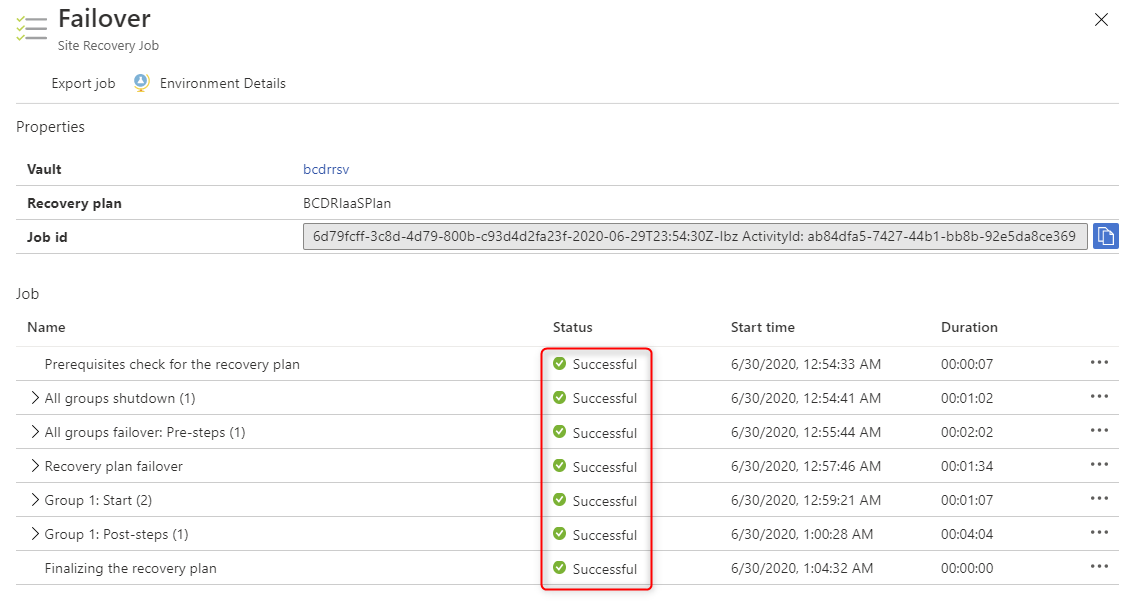
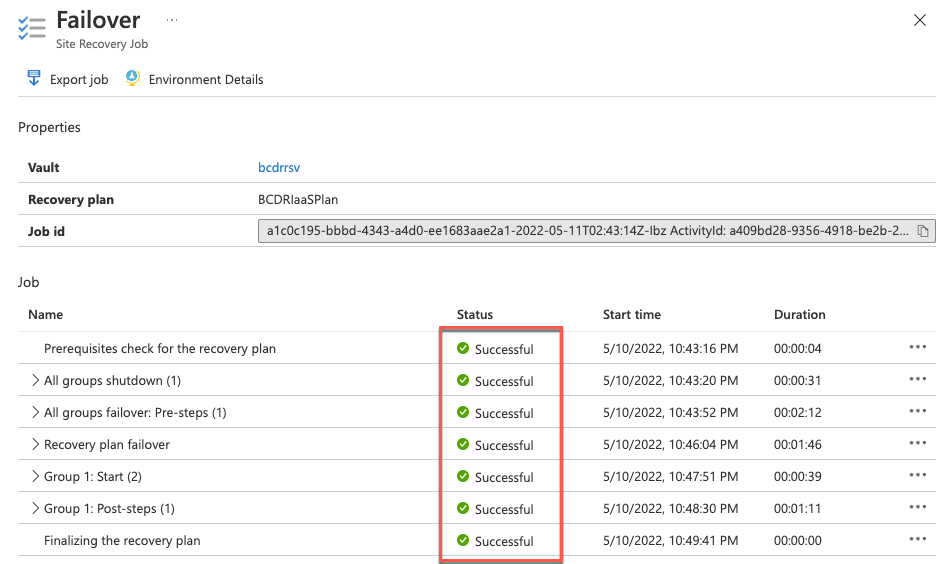
more updates to test fix and screen shots

diff --git a/Hands-on lab/HOL step-by step - Building a resilient IaaS architecture.md b/Hands-on lab/HOL step-by step - Building a resilient IaaS architecture.md
@@ -1277,12 +1277,6 @@ In this task, you will validate failover of the Contoso application from Central
 
     Keep this browser tab open, you will return to it later in the lab.
 
-    > **Note:** If you get a "Our services aren't available right now" error (or a 404-type error) accessing the web application, then continue with the lab and come back to this later. Sometime this can take a ~10 minutes for the routing rules to publish before it's "live".
-    >
-    > If you continue to have this issue beyond 15 minutes, ensure that you are using the correct backend host header and using HTTP for both the routing rules & the health probes of the backend pools. Also, try accessing the backend systems directly over HTTP to validate they came up as expected.
-    >
-    > ![Error shown displaying Our services aren't available right now.](images/image224-b.png "Error shown displaying Our services aren't available right now")
-
 2.  From a new browser tab, open the Azure portal, then navigate to the **BCDRRSV** Recovery Services Vault located in the **ContosoRG2** resource group.
 
 3.  Select **Recovery Plans (Site Recovery)** in the **Manage** area, then select **BCDRIaaSPlan**.
@@ -1449,7 +1443,7 @@ In this task, you will validate the backup for the Contoso application WebVMs. Y
 
     ![Screenshot showing the Recovery Services Vault, with the links to the Azure Virtual Machine backup item highlighted.](images/v-bk-web4.png "Backup items")
 
-9.  On the Backup items page, select **WebVM1**. On the **WebVM1** page, select **RestoreVM**.
+9.  On the Backup items page, select **View details** for **WebVM1**. On the **WebVM1** page, select **RestoreVM**.
 
     ![Screenshot showing the WebVM1 backup status page, with the 'Restore VM' button highlighted.](images/v-bk-web5.png "Restore VM button")
 
@@ -1481,7 +1475,7 @@ In this task you will validate the ability to restore the Contoso application da
 
     ![Screenshot showing the path to the SQL in Azure VMs in backup items in the Recovery Services Vault.](images/v-bk-sql1.png "Backup items")
 
-2.  From the backup items list, select the **contosoinsurance** database.
+2.  From the backup items list, select **View details** for the **contosoinsurance** database.
 
 3.  From the **contosoinsurance** blade, select **Restore**.
     
